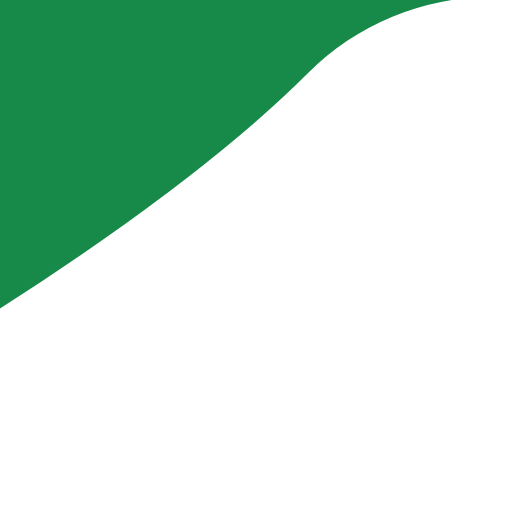
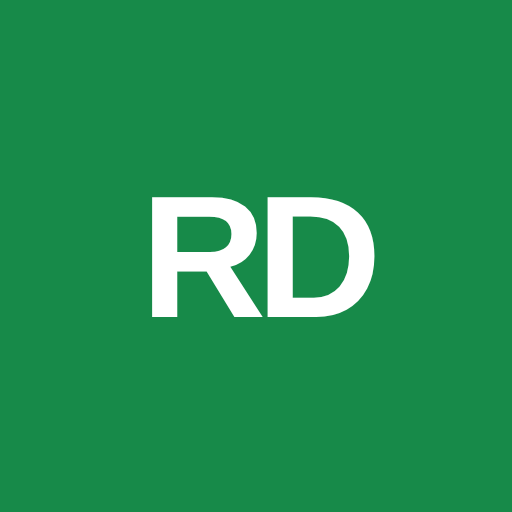
Novo ícone do app: RD em branco no fundo verde, sem cortes no Android e iPhone
Claude-Session: https://claude.ai/code/session_01FYJeQqLxM1eAxiEiX4e6gw

diff --git a/app/manifest.js b/app/manifest.js
@@ -12,9 +12,9 @@ export default function manifest() {
     theme_color: '#178a49',
     lang: 'pt-BR',
     icons: [
-      { src: '/icon-192.png', sizes: '192x192', type: 'image/png', purpose: 'any' },
-      { src: '/icon-512.png', sizes: '512x512', type: 'image/png', purpose: 'any' },
-      { src: '/icon-maskable-512.png', sizes: '512x512', type: 'image/png', purpose: 'maskable' },
+      { src: '/icon-192.png?v=2', sizes: '192x192', type: 'image/png', purpose: 'any' },
+      { src: '/icon-512.png?v=2', sizes: '512x512', type: 'image/png', purpose: 'any' },
+      { src: '/icon-maskable-512.png?v=2', sizes: '512x512', type: 'image/png', purpose: 'maskable' },
     ],
     shortcuts: [
       { name: 'Solicitar serviço', url: '/chamado', icons: [{ src: '/icon-192.png', sizes: '192x192' }] },

diff --git a/public/sw.js b/public/sw.js
@@ -1,6 +1,6 @@
 // Service worker: permite instalar o app, mostra um aviso sem internet e recebe as notificações.
 // Não guarda dados dos chamados em cache — tudo continua vindo do servidor.
-const CACHE = 'grupo-rd-v2'
+const CACHE = 'grupo-rd-v3'
 const OFFLINE = '/offline.html'
 
 self.addEventListener('install', (event) => {
